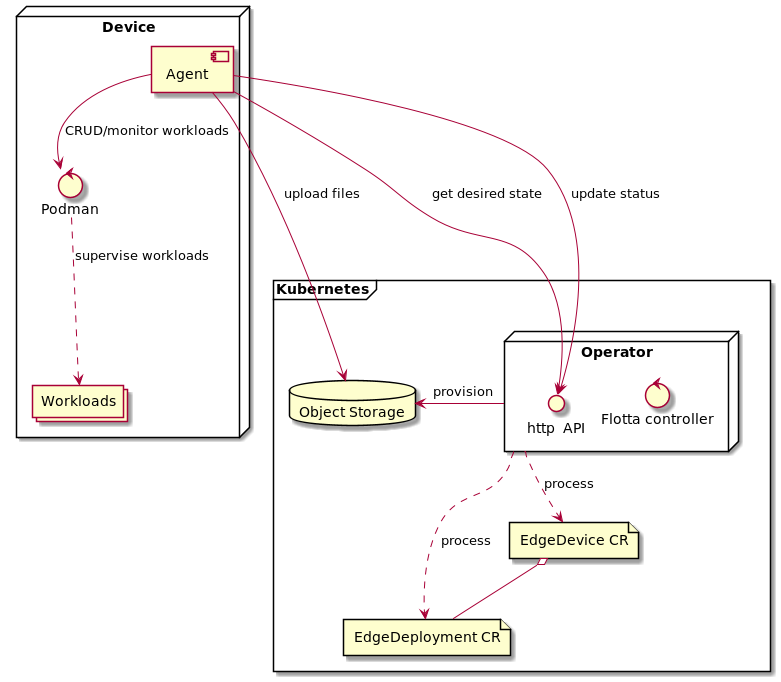
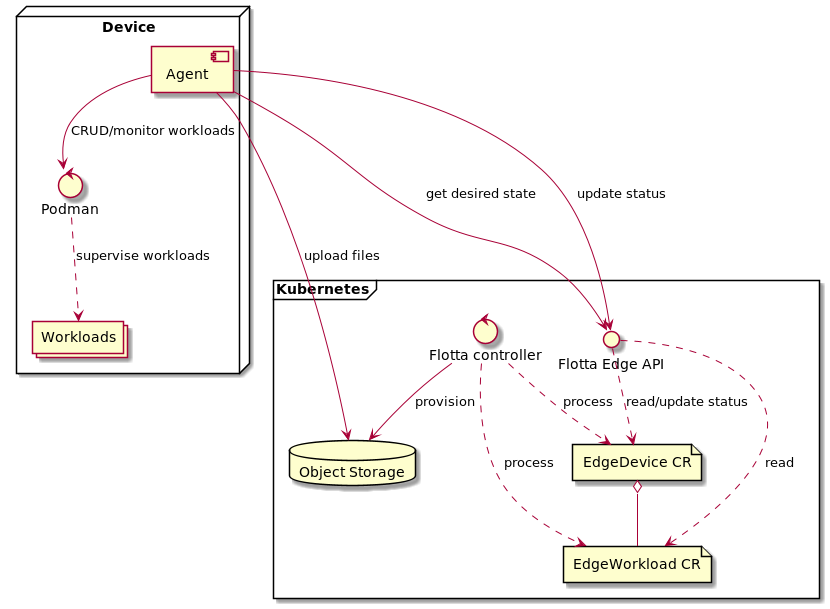
Update docs to reflect operator split

diff --git a/documentation/latest/gsg/minikube.md b/documentation/latest/gsg/minikube.md
@@ -100,11 +100,12 @@ playbookexecutions                             management.project-flotta.io/v1al
 --->
 ```
 
-At the same time, in the flotta namespace an operator should be running:
+At the same time, in the flotta namespace the operator and the edge-api pods should be running:
 ```
 ---> kubectl -n flotta get pods
-NAME                                                  READY   STATUS    RESTARTS   AGE
-flotta-operator-controller-manager-5ffc74fd8c-wv9cm   2/2     Running   0          2m1s
+NAME                                             READY   STATUS    RESTARTS        AGE
+pod/flotta-controller-manager-7fd45874c6-wxxfv   2/2     Running   0               3d17h
+pod/flotta-edge-api-8649fbb9dc-bt4r9             2/2     Running   0               3d17h
 --->
 ```
 
@@ -125,7 +126,7 @@ your edgedevice, for sharing the flotta API port to the edgedevice the best way
 is to use kubectl port-forward:
 
 ```
-$ kubectl port-forward service/flotta-operator-controller-manager -n flotta 8043 --address 0.0.0.0
+$ kubectl port-forward service/flotta-edge-api -n flotta 8043 --address 0.0.0.0
 ```
 
 On the device, with Fedora already installed, we need to execute the following:

diff --git a/documentation/latest/operations/troubleshooting.md b/documentation/latest/operations/troubleshooting.md
@@ -42,7 +42,7 @@ checking that both service and Ingress route is correct is the way to go.
 The best way to check the route is with the following command:
 
 ```shell
-$ kubectl get route -n flotta flotta-operator-controller-manager -o json | jq ".status"
+$ kubectl get route -n flotta flotta-edge-api -o json | jq ".status"
 {
   "ingress": [
     {
@@ -64,12 +64,12 @@ $ kubectl get route -n flotta flotta-operator-controller-manager -o json | jq ".
 And for the service, check that the pod is running as expected:
 
 ```shell
-$ -> kubectl get pod -n flotta -l app=flotta-controller-manager
+$ -> kubectl get pod -n flotta -l app=flotta-edge-api
 NAME                                                  READY   STATUS             RESTARTS   AGE
-flotta-operator-controller-manager-7bf65f68d8-q55jm   1/2     ImagePullBackOff   0          27m
+flotta-edge-api-8649fbb9dc-bt4r9                      1/2     ImagePullBackOff   0          27m
 ```
 
-As in this example, flotta pod is not ready, and communication is not working as
+As in this example, flotta edge api pod is not ready, and communication is not working as
 expected.
 
 ## Device operations troubleshooting

diff --git a/documentation/latest/dev/profiling.md b/documentation/latest/dev/profiling.md
@@ -40,7 +40,7 @@ $ -> kubectl get route pyroscope kubectl get routes pyroscope --no-headers -o=cu
 
 There is need to patch flotta's resources to expose targets and mark pods for profiling:
 ```bash
-$ -> kubectl patch deployment flotta-operator-controller-manager -n flotta -p '
+$ -> kubectl patch deployment flotta-controller-manager -n flotta -p '
   { "spec": {
       "template": {
         "spec":
@@ -59,7 +59,7 @@ $ -> kubectl patch deployment flotta-operator-controller-manager -n flotta -p '
       }
   }'
 
-$ -> kubectl patch service flotta-operator-controller-manager -n flotta -p '
+$ -> kubectl patch service flotta-controller-manager -n flotta -p '
   { "spec": {
       "ports": [
           {
@@ -72,7 +72,7 @@ $ -> kubectl patch service flotta-operator-controller-manager -n flotta -p '
   }
   }'
 
-$ -> kubectl patch deployment -n flotta flotta-operator-controller-manager -p '
+$ -> kubectl patch deployment -n flotta flotta-controller-manager -p '
    {
      "spec": {
        "template":{

diff --git a/documentation/latest/gsg/kind.md b/documentation/latest/gsg/kind.md
@@ -92,11 +92,12 @@ edgeworkloads                                  management.project-flotta.io/v1al
 playbookexecutions                             management.project-flotta.io/v1alpha1   true         PlaybookExecution
 ```
 
-At the same time, in the flotta namespace an operator should be running:
+At the same time, in the flotta namespace the operator and the edge-api pods should be running:
 ```
 $ -> kubectl -n flotta get pods
-NAME                                                  READY   STATUS    RESTARTS   AGE
-flotta-operator-controller-manager-5ffc74fd8c-m7qbp   2/2     Running   0          55s
+NAME                                             READY   STATUS    RESTARTS        AGE
+pod/flotta-controller-manager-7fd45874c6-wxxfv   2/2     Running   0               3d17h
+pod/flotta-edge-api-8649fbb9dc-bt4r9             2/2     Running   0               3d17h
 ```
 
 Flotta is now running and ready to register edgedevices. To register a

diff --git a/documentation/latest/dev/guide.md b/documentation/latest/dev/guide.md
@@ -79,7 +79,7 @@ $ kubectl wait --timeout=120s --for=condition=Ready pods -l app=flotta-controlle
 2.  Expose the flotta API
 
 ```bash
-$ kubectl port-forward deploy/flotta-operator-controller-manager -n flotta --address 0.0.0.0 8043:8043 &
+$ kubectl port-forward deploy/flotta-edge-api -n flotta --address 0.0.0.0 8043:8043 &
 ```
 
 3.  Run the tests
@@ -95,7 +95,7 @@ $ make integration-test
 If timeout, debug the deployment logs by running:
 
 ```shell 
-kubectl logs deploy/flotta-operator-controller-manager -n flotta
+kubectl logs deploy/flotta-controller-manager -n flotta
 ```
 
 **Waiting for edge device timeouts in integration tests**:

diff --git a/documentation/latest/operations/deployment_options.md b/documentation/latest/operations/deployment_options.md
@@ -9,7 +9,7 @@ on/off based on a configMap value. To edit one of these parameters, the
 following configmap should be editted. 
 
 ```shell
-kubectl edit cm -n flotta flotta-operator-manager-config
+kubectl edit cm -n flotta flotta-manager-config
 ```
 
 After any change in that file, flotta-operator and API need to be rebooted. 

diff --git a/documentation/latest/operations/configuration.md b/documentation/latest/operations/configuration.md
@@ -189,7 +189,7 @@ Refer to [zapcore docs](https://github.com/uber-go/zap/blob/v1.15.0/zapcore/leve
 For example:
 
 ```bash
-kubectl patch cm -n flotta flotta-operator-manager-config \
+kubectl patch cm -n flotta flotta-manager-config \
   --type merge \
   --patch '{"data":{"LOG_LEVEL": "debug"}}'
 ```
